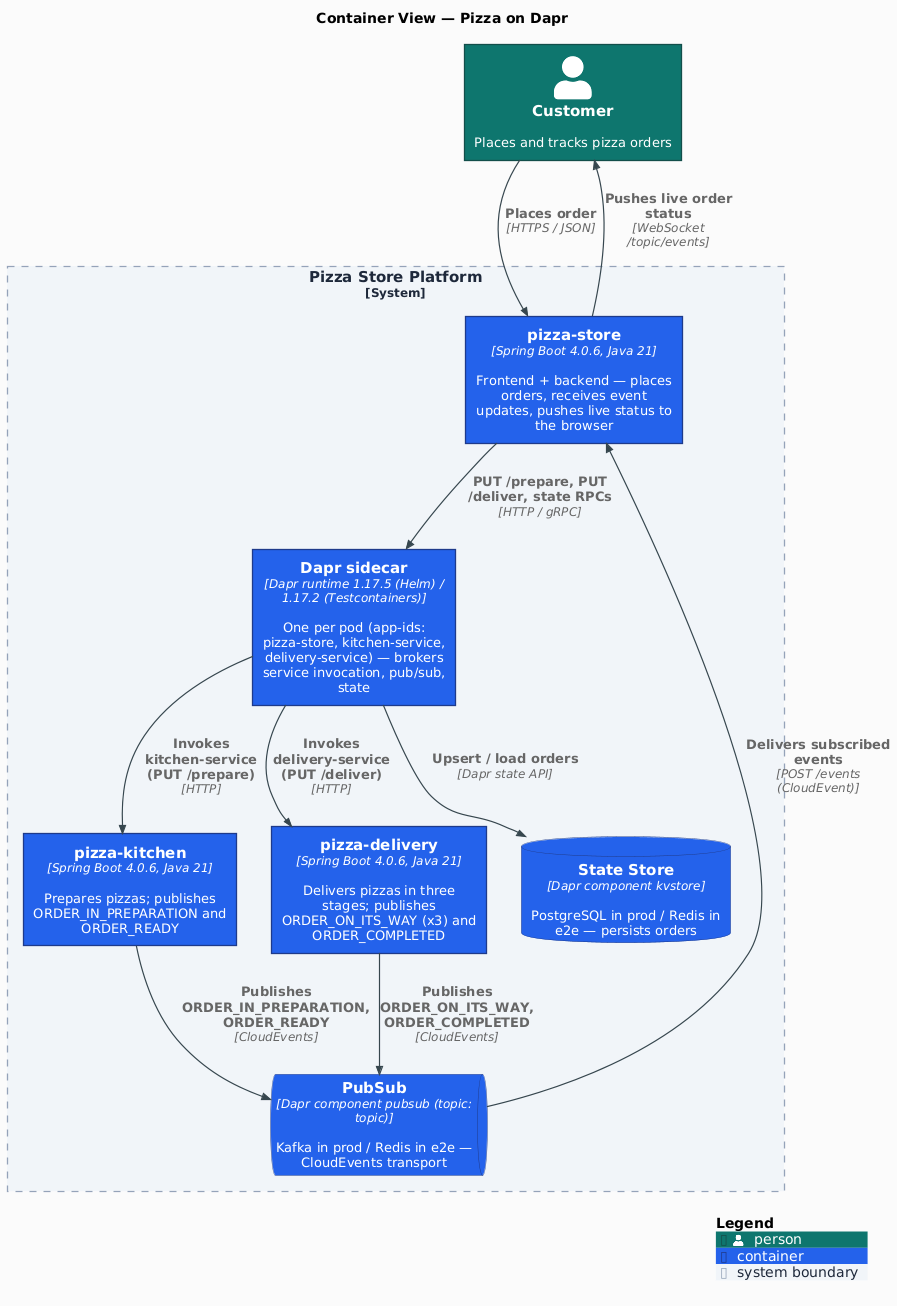
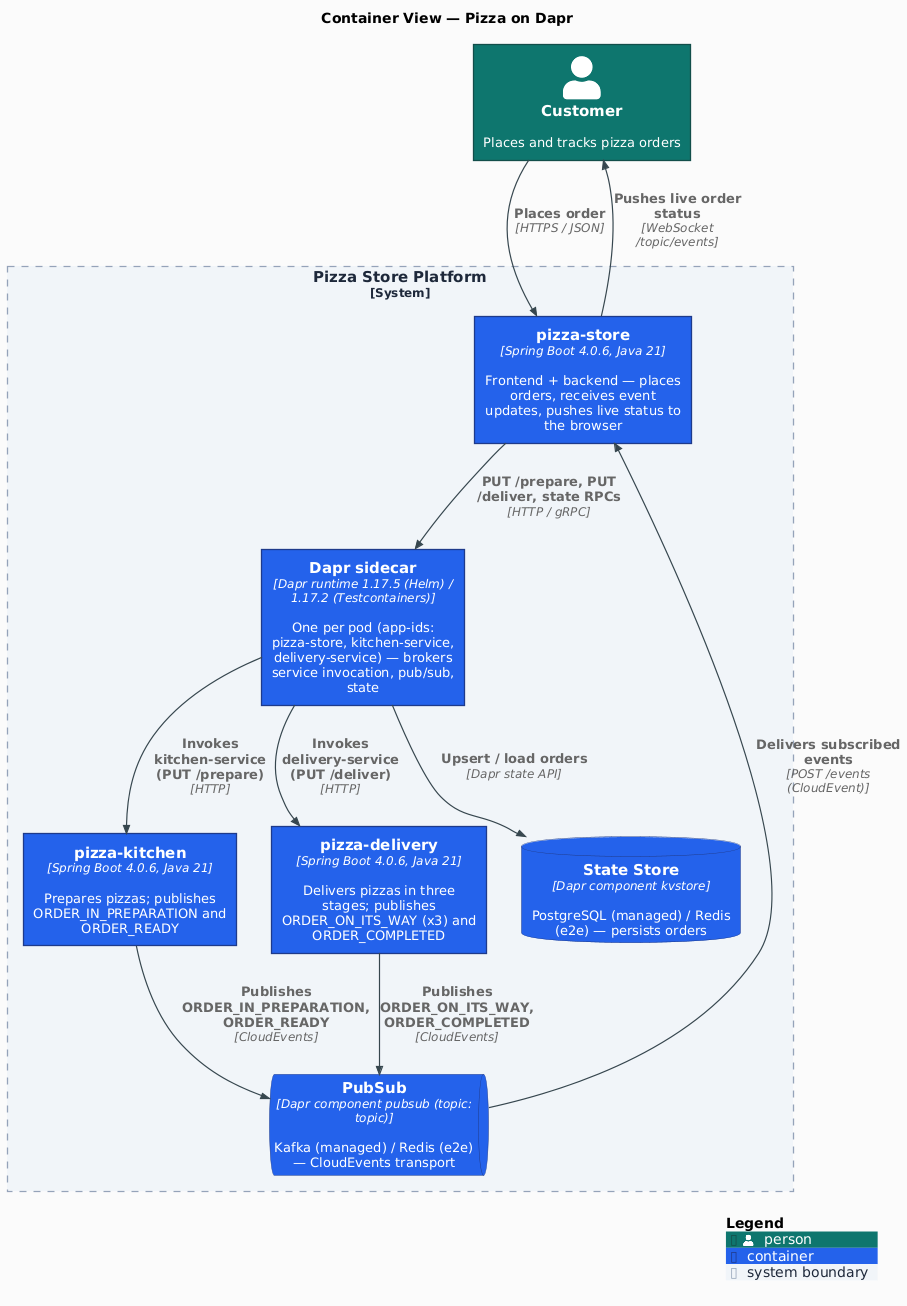
chore: project-review remediation across Makefile, CI, README, CLAUDE.md, diagrams
Foundation (Phase A):
- Makefile: route NVD_API_KEY through ~/.m2/settings.xml + -DnvdApiServerId=nvd
  (no argv leak); kind-destroy prunes kindccm-* orphan sidecars
- renovate.json: add java-version manager + Jackson/WireMock/Tomcat-embed groupings
- ci.yml: rename publish-images job to docker (canonical name); strip template
  expressions and decorative parentheticals from step names; Install Maven /
  Install mise canonical verbs; dorny/paths-filter base set only on push events;
  Sign image with cosign canonical name
- cleanup-runs.yml: add contents: read baseline for cleanup-caches gh api calls
- e2e/e2e-test.sh: K1.5 route-readiness poll between LB-IP discovery and first
  curl; soft-check intermediate Status.delivery during lifecycle poll
- diagrams: c4-context Dapr System (consistent with Container view); replace
  prod with managed in PostgreSQL/Kafka labels; c4-deployment split single
  representative pod into 3 distinct Deployment_Node blocks per service;
  replace sidecar self-loop with explicit per-pair sidecar arrows; PNGs
  re-rendered

Documentation (Phase B):
- README: Tech Stack Test containers -> Testcontainers + Diagram-lint row;
  Quick Start make run caveat moved to prose; new Context View subsection;
  Deployment View prose updated for split-pod diagram; new Build & Package
  section with Testing folded in; CI/CD publish-images -> docker with
  cve-check dep + matrix + smoke-test + cosign details; cosign verify recipe
[…]

diff --git a/CLAUDE.md b/CLAUDE.md
@@ -134,38 +134,45 @@ public class PizzaKitchenTest {
 
 Managed centrally in the parent `pom.xml` `<properties>` block. The Dapr SDK version (`dapr.version`) drives both `dapr-spring-boot-4-starter` and `testcontainers-dapr`. Dependency updates are automated via Renovate (`renovate.json`) with automerge enabled on all update types — platform automerge with squash strategy, vulnerability alerts fast-tracked with zero delay.
 
+## Key Config
+
+Permanent design rules and operational constraints. Each one is load-bearing — read before changing the related target / manifest.
+
+### Release workflow
+
+- `make ci` deliberately omits `cve-check` and `image-scan` because both are slow and one is advisory. They run via `make pre-release` (auto-invoked by `make release`):
+  - `cve-check` is wrapped in `timeout 300` and `|| true`. The OWASP dependency-check plugin can spin 20+ min in an internal retry loop against the NVD deserializer bug without exiting non-zero, so the soft-fail `||` alone is not bounded. The HTML report uploads in CI when the warm NVD cache succeeds.
+  - `image-scan` is strict. It catches Paketo helper Go-stdlib CVEs that `trivy-fs` (workspace) and `cve-check` (Maven deps) both miss. `.trivyignore` documents currently-accepted Paketo-upstream CVEs with tracker URLs.
+- `cve-check` also runs in CI on tag pushes, weekly cron (Mon 06:00 UTC), and `workflow_dispatch`.
+- The `cve-check` Make recipe routes `NVD_API_KEY` through `~/.m2/settings.xml` + `-DnvdApiServerId=nvd` (written via `printf` — bash builtin, no argv). The flag form `-DnvdApiKey=$$NVD_API_KEY` would leak the value via `ps -ef` / `/proc/<pid>/cmdline` for the entire ~30-min plugin lifetime.
+
+### Image publishing
+
+- GHCR images publish under the **repo-namespace** `ghcr.io/<owner>/<repo>/<package>`, not the user-namespace `ghcr.io/<owner>/<package>`. `GITHUB_TOKEN` can create new packages in the repo-namespace on first push; in the user-namespace it cannot (returns `denied: permission_denied: write_package` regardless of `packages: write` scope or OCI source label) — first publish then requires a PAT.
+- Touched by: `.github/workflows/ci.yml` `docker` job (`REPO` segment in image-ref construction), `k8s/pizza-*.yaml` + `k8s-dapr-shared/apps.yaml` `image:` lines, `Makefile` `kind-deploy` `sed` override.
+- Repo `default_workflow_permissions` must be `read` or `write` (both work for repo-namespace packages).
+- Cosign keyless OIDC (Sigstore Fulcio) signs each pushed digest. Verify with the recipe in [README §CI/CD](README.md#cicd).
+
+### Local KinD multi-cluster constraint
+
+Running multiple KinD clusters on the shared default `kind` Docker network causes `dapr-operator` CrashLoopBackOff with `dial tcp 10.96.0.1:443: i/o timeout` — both clusters' kube-proxies lay down DNAT rules for the same in-cluster API ClusterIP (`10.96.0.1:443`), and the rule sets collide on the host bridge.
+
+- This is the documented constraint of multi-cluster KinD on a shared network, not a bug in Helm or Dapr (reproduces identically under Helm 3.20.2 and 4.1.4). CI runners always have a clean Docker daemon, so GitHub Actions e2e is unaffected.
+- `make kind-create` warns when sibling `*-control-plane` containers are present on the `kind` network.
+- Workarounds: `kind delete cluster --name <other>` before `make e2e`, or use a per-cluster network via `KIND_EXPERIMENTAL_DOCKER_NETWORK`.
+- `make kind-destroy` prunes `kindccm-*` orphan Envoy sidecars left behind by `cloud-provider-kind`. Without that, a subsequent `kind-up` can land on an orphan's IP and inherit its stale Envoy config (pointed at dead pods from previous runs), producing "connection reset by peer" on the first curl.
+
 ## Upgrade Backlog
 
-Last reviewed: 2026-04-25
+Last reviewed: 2026-05-05
 
-- [x] **Maven 3.9 EOL (2026-03-12)** — updated `MAVEN_VERSION` to 3.9.14 (2026-04-03)
-- [x] **mise migration** — replaced SDKMAN + nvm with mise via `.mise.toml` and `.java-version` (2026-04-15)
-- [x] **Static-check composite quality gate** — `format-check` + `lint` + `trivy-fs` + `trivy-config` + `secrets` wired into `make ci` (2026-04-15)
-- [x] **CVE overrides** — pinned Tomcat 11.0.21, Jackson 3.1.2, gRPC 1.80.0 in `dependencyManagement` to address advisories (2026-04-15)
-- [x] **K8s security hardening** — `runAsNonRoot`, `readOnlyRootFilesystem`, dropped capabilities, tmpfs for writable paths in all three Deployments (both `k8s/` and `k8s-dapr-shared/`) (2026-04-15)
-- [x] **`cve-check` wired into CI** — runs on tag pushes, weekly schedule (Mon 06:00 UTC), and `workflow_dispatch`. Omitted from `make ci` and `make ci-run` — run `make cve-check` manually before pushing a release tag. NVD cache + HTML report upload intact. (2026-04-15)
-- [x] **`MAVEN_VERSION` Renovate tracking** — covered by the generic `# renovate:` customManagers regex (2026-04-15)
 - [ ] **Maven 4.0 migration** — plan when Maven 4.0 reaches GA (currently RC-5)
-- [x] **Helm 4.1.4 upgrade** — bumped `HELM_VERSION` from 3.20.1 to 4.1.4 (2026-04-25). Dapr Helm chart 1.17.5 is `apiVersion: v2` with no `kubeVersion` constraint, fully compatible with Helm 4. No CLI flag changes needed for `helm upgrade --install dapr ... --version 1.17.5 --wait --timeout 5m`. Local e2e validation was inconclusive due to a separate CNI issue on this host (see entry below); Helm version itself is not the cause — the same failure reproduces under Helm 3.20.2 with identical `dial tcp 10.96.0.1:443: i/o timeout` from `dapr-operator`. Real-CI validation will run on the next push to main.
-- [x] **Local KinD multi-cluster collision diagnosed (2026-04-25)** — `make e2e` failed locally with `dapr-operator` CrashLoopBackOff (`dial tcp 10.96.0.1:443: i/o timeout` to in-cluster `kubernetes.default`). Root cause: a sibling KinD cluster (`dapr-kafka`) was running on the shared `kind` Docker bridge network. Both clusters' kube-proxies lay down iptables/nftables DNAT rules for the same ClusterIP (`10.96.0.1:443` → local API server `172.18.0.x:6443`); the rule sets collide on the host bridge and pod→API-service traffic lands on the wrong cluster (or nowhere). Reproduced identically under Helm 3.20.2 and Helm 4.1.4 — confirms it's not a Helm regression. **Not an upstream bug**: searched `kubernetes-sigs/kind` and `aojea/kindnet` open issues, nothing matching; this is the documented constraint of running multiple KinD clusters on the shared default `kind` network. CI runners always have a clean Docker daemon, so GitHub Actions e2e is unaffected. **Mitigation shipped**: `make kind-create` now warns when sibling `*-control-plane` containers are present on the `kind` network. Workaround when running multiple Dapr clusters locally: `kind delete cluster --name <other>` before `make e2e`, or use a per-cluster network via `KIND_EXPERIMENTAL_DOCKER_NETWORK`.
 - [ ] **Spring Boot 4.0 EOL (2026-12-31)** — monitor 4.1 release schedule, plan upgrade before Dec 2026
 - [ ] **Alpha dependencies** — `opentelemetry-instrumentation-bom-alpha`, `wiremock-testcontainers` 1.0-alpha-15. Track GA releases.
-- [ ] **OWASP dependency-check NVD deserializer bug** — 12.2.1 cannot parse 9-digit nanosecond timestamps from the NVD API (`Failed to deserialize java.time.ZonedDateTime ... unparsed text found at index 23`). `cve-check` CI step is `continue-on-error: true` until a fixed release; re-enable strict failure once upstream ships. Track: dependency-check/DependencyCheck.
-- [x] **MetalLB → cloud-provider-kind + kindest/node v1.35.0** — replaced in-cluster MetalLB with kind-team's cloud-provider-kind (runs as a host-side controller, no nftables interaction). Unblocks the kindest/node v1.35.0 bump. (2026-04-15)
-- [ ] **Single-app DaprContainer limitation** — confirmed upstream-blocked: `dapr/java-sdk:testcontainers-dapr/.../DaprContainer.java` still exposes only single `appName/appPort/appChannelAddress` fields (no peer-app registration). Workaround in `KitchenInvocationIT` / `DeliveryInvocationIT`: override `DAPR_HTTP_ENDPOINT` to a WireMock receiver — this verifies the emitted HTTP contract (verb, path, body) but bypasses the sidecar invoke hop. The full sidecar→app→sidecar path is covered by the KinD e2e via `make e2e`. A richer approach would be two `DaprContainer` instances sharing a placement service on a common Docker network; not attempted because (a) upstream doesn't expose `withPlacementService` in a way that makes app IDs cross-routable, and (b) the e2e already gives us that coverage. Re-wire once upstream adds multi-app support.
-- [x] **Raise JaCoCo threshold to 0.80** — Failsafe coverage aggregation wired via `jacoco:merge`; `coverage-generate` now runs `mvn verify -P integration-test` and reports merged unit+IT coverage (pizza-store 0.89, pizza-kitchen 0.88, pizza-delivery 0.93) (2026-04-15).
-- [x] **Add integration tests (`**/*IT.java`)** — state store round-trip, kitchen invocation, delivery invocation, WebSocket broadcast (2026-04-15)
-- [x] **Add `make e2e` target + KinD/cloud-provider-kind** — full KinD lifecycle, cloud-provider-kind LoadBalancer, Dapr Helm, e2e script asserting order fan-out (2026-04-15)
-- [x] **Dapr 1.17.1 → 1.17.2; Jackson 3.1.1 → 3.1.2; OTel 1.60.1 → 1.61.0** — patch bumps (2026-04-15)
-- [x] **Dapr Helm chart bump** — chart aligned to 1.17.4 via `DAPR_HELM_VERSION` in Makefile (2026-04-15)
-- [ ] **Replace hand-drawn architecture PNGs with C4-PlantUML** — `architecture.png`, `architecture+infra.png`, `architecture+dapr.png` lack source; the `+` in filenames also complicates URL-encoding. Follow-up `/architecture-diagrams`.
-- [ ] **Add C4 Context hero diagram to README** — deferred until PlantUML toolchain and `make diagrams-check` lint are introduced (mermaid-lint not wired today). Follow-up `/architecture-diagrams`.
-- [x] **Paketo/CNB builder blind spot — added `image-scan` target** — `make image-scan` runs `trivy image --severity HIGH,CRITICAL` against each `pizza-*:e2e` OCI image after `image-build`. Wired into the `e2e` job so CI fails on layer-level CVEs that `trivy-fs` (filesystem) and `cve-check` (Maven deps) both miss. (2026-04-20)
-- [x] **Dapr Helm bump to 1.17.5** — chart now at 1.17.5 via `DAPR_HELM_VERSION`. Java SDK/testcontainers-dapr stay at 1.17.2 (latest stable on Maven Central; `io.dapr.spring:dapr-spring-boot-4-starter` 1.17.3 is RC-only — re-visit on GA). Runtime-ahead-of-SDK is the normal Dapr Java cadence. (2026-04-20)
-- [x] **First-party OCI images on GHCR** — manifests (`k8s/pizza-*.yaml`, `k8s-dapr-shared/apps.yaml`) reference `ghcr.io/andriykalashnykov/pizza-*`. New `publish-images` job in `ci.yml` is tag-gated, runs after e2e, uses `make image-scan` to build + scan, then pushes `:<version>` and `:latest` to GHCR. Renovate `kubernetes` manager enabled (`renovate.json`) so manifest image tags are auto-tracked. (2026-04-20)
-- [x] **GHCR first-publish write_package fix** — `GITHUB_TOKEN` cannot create new packages at `ghcr.io/<owner>/<package>` (user-namespace), regardless of `packages: write` scope, OCI source label, or repo workflow permissions. Must publish at `ghcr.io/<owner>/<repo>/<package>` (repo-namespace) for `GITHUB_TOKEN` to work on the first push — that's the documented, supported path. Fix touches `.github/workflows/ci.yml` `publish-images` (inject `REPO` segment), `k8s/pizza-*.yaml` + `k8s-dapr-shared/apps.yaml` image lines, and `Makefile` `kind-deploy` sed. Preserves `BP_OCI_SOURCE` label for auto-linking in the UI. Shipped as v0.1.2. (Also required `default_workflow_permissions` repo setting to be `read` or `write` — either works for repo-namespace packages, whereas user-namespace needs PAT.) (2026-04-20)
-- [x] **Pre-release gate closes image-scan blind spot** — `make ci` and `make ci-run` do NOT exercise `image-scan` (it lives downstream of `kind-deploy`). First v0.1.0 tag push failed in CI when Trivy found 3 HIGH Go-stdlib CVEs in Paketo helper binaries that no local gate ever ran against. Fix: new `make pre-release` bundles every slow gate missing from `make ci` — `cve-check` (advisory with a 300 s `timeout` wrapper: the OWASP dep-check plugin can spin 20+ min in an internal retry loop against the NVD deserializer bug without exiting non-zero, so the soft-fail `||` alone was not bounded) + `image-scan` (strict). `make release` depends on `pre-release`, so a tag cannot be written without the scan gate passing. `.trivyignore` documents the currently-accepted Paketo-upstream CVEs with the reasoning + tracker links required for removal. When upstream fixes the NVD deserializer, drop the timeout wrapper. (2026-04-20)
-- [x] **`PUBLIC_IP` server-info round-trip retired; WebSocket URL derived client-side** — the legacy flow `(client) GET /server-info → {publicIp: "localhost:8080"} → ws://localhost:8080/ws` only worked under `kubectl port-forward svc/pizza-store 8080:80`; under any real LoadBalancer (cloud-provider-kind on `make kind-up`, or a cloud LB) the WebSocket connect fell through and the Events panel stayed empty while the order fan-out still completed server-side. Surfaced 2026-04-26 during the salaboy-purge screenshot regeneration — had to fall back to port-forward to capture working UI. Fix: `app.js` now builds the broker URL from `window.location.host` with a `wss:` upgrade when the page is HTTPS, so it follows whichever host the browser is talking to and survives TLS-terminating LBs for free. Server-side: `/server-info` endpoint, `Info` record, and `PUBLIC_IP @Value` field removed from `PizzaStore.java`; `PUBLIC_IP` env entries dropped from `k8s/pizza-store.yaml` and `k8s-dapr-shared/apps.yaml`; `testGetServerInfo` removed from `PizzaStoreTest.java`. Follow-up — adding a Playwright/puppeteer browser-path assertion to `make e2e` would prevent the next regression of this class. (2026-04-26)
+- [ ] **OWASP dependency-check NVD deserializer bug** — 12.2.1 cannot parse 9-digit nanosecond timestamps from the NVD API (`Failed to deserialize java.time.ZonedDateTime ... unparsed text found at index 23`). `cve-check` CI step is `continue-on-error: true` and `make pre-release` wraps it in `timeout 300` until a fixed release ships. Re-enable strict failure once upstream ships. Track: dependency-check/DependencyCheck.
+- [ ] **Single-app DaprContainer limitation** — upstream-blocked: `dapr/java-sdk:testcontainers-dapr/.../DaprContainer.java` exposes only single `appName/appPort/appChannelAddress` fields (no peer-app registration). Workaround in `KitchenInvocationIT` / `DeliveryInvocationIT`: override `DAPR_HTTP_ENDPOINT` to a WireMock receiver — verifies the emitted HTTP contract (verb, path, body) but bypasses the sidecar invoke hop. The full sidecar→app→sidecar path is covered by the KinD e2e via `make e2e`. Re-wire once upstream adds multi-app support.
+- [ ] **Multi-arch image publish (linux/arm64)** — `spring-boot:build-image` (Paketo CNB) builds only the host arch. Apple Silicon and Graviton consumers currently pull amd64 images. Path forward: add `runs-on: ubuntu-24.04-arm` matrix dimension with `docker manifest create`, OR migrate to a thin Dockerfile + `docker/build-push-action` with `platforms: linux/amd64,linux/arm64`.
+- [ ] **WebSocket assertion in e2e** — `WebSocketBroadcastIT` covers the WS path in-process, but `e2e/e2e-test.sh` does not connect a STOMP client to the LB-exposed `/ws`. The legacy `PUBLIC_IP`-hardcoded WebSocket bug surfaced 2026-04-26 because no e2e exercise this path. Add a `websocat` (in `.mise.toml`) or Playwright step subscribing to `/topic/events` during order placement.
 
 ## Skills
 

diff --git a/README.md b/README.md
@@ -35,8 +35,9 @@ C4Context
 | JSON | Jackson 3.1.2 | Pinned to address CVE-reported 2.x transitive dependencies |
 | gRPC | gRPC 1.80.0 | Pinned to address CVEs in older Spring-Boot-managed version |
 | Build | Maven 3.9.15 | Latest 3.9.x; Maven 4.0 upgrade tracked in backlog |
-| Test containers | Testcontainers 2.x + `testcontainers-dapr` 1.17.2 | Runs containerized Dapr sidecars during tests |
+| Testcontainers | Testcontainers 2.x + `testcontainers-dapr` 1.17.2 | Runs containerized Dapr sidecars during tests |
 | Code quality | Checkstyle + google-java-format 1.35.0 + Trivy + gitleaks | Composite `make static-check` gate |
+| Diagram lint | PlantUML 1.2026.2 (`make diagrams-check`) + mermaid-cli 11.12.0 (`make mermaid-lint`) | Wired into `make static-check` |
 | Coverage | JaCoCo (80% min, enforced) | Enforced by `make coverage-check` |
 | Version manager | [mise](https://mise.jdx.dev/) | Pins Java/Maven/Node via `.mise.toml` |
 | CI | GitHub Actions | Workflow at `.github/workflows/ci.yml` |
@@ -47,9 +48,11 @@ C4Context
 make deps          # install build dependencies via mise (reads .mise.toml)
 make build         # build project (skips tests)
 make test          # run unit tests (requires Docker)
-make run           # start the application (dev only — needs a Dapr sidecar to serve orders end-to-end; see Kubernetes Deployment for the full stack)
+make run           # start pizza-store standalone
 # Open http://localhost:8080
 ```
+
+`make run` boots `pizza-store` only — the UI loads, but order placement requires the full three-service stack with Dapr sidecars. Use `make kind-up` (see [Kubernetes Deployment](#kubernetes-deployment)) to bring everything up locally.
 
 ## Prerequisites
 
@@ -77,6 +80,12 @@ make env-check
 ## Architecture
 
 The Pizza Store application simulates placing a Pizza Order that is processed by three Spring Boot 4 services communicating over Dapr building blocks. The Pizza Store Service serves as the frontend and backend to place orders; orders are sent to the Kitchen Service for preparation and once ready, the Delivery Service takes the order to the customer. [Dapr](https://dapr.io) decouples the services from infrastructure — [building block APIs](https://docs.dapr.io/concepts/building-blocks-concept/) (State Store, PubSub, Service Invocation) let infrastructure teams swap PostgreSQL/Kafka (prod) for Redis (e2e) without touching application code.
+
+### Context View
+
+<img src="docs/diagrams/out/c4-context.png" alt="C4 Context diagram — Pizza on Dapr" width="600">
+
+A customer interacts with the Pizza Store Platform over HTTPS / WebSocket; the platform delegates service invocation, pub/sub, and state persistence to its co-deployed Dapr Runtime (Helm-installed control plane plus per-pod sidecars). Source: [`docs/diagrams/c4-context.puml`](docs/diagrams/c4-context.puml).
 
 ### Container View
 
@@ -128,8 +137,8 @@ sequenceDiagram
 
 <img src="docs/diagrams/out/c4-deployment.png" alt="C4 Deployment diagram (Kubernetes)" width="800">
 
-- Three pods, one per service (`pizza-store`, `pizza-kitchen`, `pizza-delivery`), each running a single replica in the `default` namespace. The diagram collapses them to a single representative pod for legibility — in the cluster they're three separate `Deployment`s with matching `dapr.io/app-id` annotations (`pizza-store`, `kitchen-service`, `delivery-service`).
-- Each pod co-locates the Spring Boot app container with a Dapr sidecar injected via the `dapr.io/enabled` annotation.
+- Three pods in the `default` namespace, one per service (`pizza-store`, `pizza-kitchen`, `pizza-delivery`), each running a single replica with matching `dapr.io/app-id` annotations (`pizza-store`, `kitchen-service`, `delivery-service`).
+- Each pod co-locates the Spring Boot app container with a Dapr sidecar injected via the `dapr.io/enabled` annotation. Cross-pod service invocation flows app → local sidecar → remote sidecar → remote app over mTLS HTTP/gRPC; apps never address each other directly.
 - `pizza-store` is exposed through a `Service` of type `LoadBalancer`. On KinD that IP is provisioned by [cloud-provider-kind](https://github.com/kubernetes-sigs/cloud-provider-kind) (host-side controller, no in-cluster MetalLB); in production the cloud LB controller fills the same role. Service port 80 bridges to container port 8080.
 - The Dapr control plane (`dapr-operator`, `placement`, `sentry`, `injector`) runs in the `dapr-system` namespace via the official Helm chart (1.17.5).
 - PubSub and State Store components resolve to Redis for e2e (`k8s/components-e2e.yaml`) and to Kafka + PostgreSQL in production.
@@ -156,9 +165,21 @@ CloudEvents can be replayed locally against a running pizza-store using [`httpie
 http :8080/events Content-Type:application/cloudevents+json < pizza-store/event-in-prep.json
 ```
 
-## Testing
+## Build & Package
 
-Tests use [Testcontainers](https://testcontainers.com) with [`io.dapr:testcontainers-dapr`](https://central.sonatype.com/artifact/io.dapr/testcontainers-dapr) to automatically start Dapr sidecars and placement services. Integration tests run outside of Kubernetes without any manual Dapr setup — only Docker is required.
+The build pipeline produces three artefact tiers, each gated by a separate `make` target:
+
+| Stage | Command | Output | Notes |
+|-------|---------|--------|-------|
+| Compile + JAR | `make build` | `pizza-store/target/*.jar`, `pizza-kitchen/target/*.jar`, `pizza-delivery/target/*.jar` | Standard Maven `install -Dmaven.test.skip=true` |
+| OCI image | `make image-build` | `pizza-store:e2e`, `pizza-kitchen:e2e`, `pizza-delivery:e2e` (local Docker daemon) | Built via `mvn spring-boot:build-image` (Paketo CNB buildpacks); no `Dockerfile` |
+| Image scan | `make image-scan` | Pass / fail (HIGH/CRITICAL fixed-only) | Trivy `--ignore-unfixed --exit-code 1`; closes the Paketo base-layer CVE blind spot that `trivy-fs` and `cve-check` cannot see |
+
+For tag-gated GHCR publication see [CI/CD](#cicd) — the `docker` job builds, scans, smoke-tests (Spring Boot boot marker), pushes to `ghcr.io/<owner>/<repo>/pizza-*:<version>` and `:latest`, and signs every digest with [cosign keyless OIDC](https://docs.sigstore.dev/cosign/keyless/) (Sigstore Fulcio).
+
+### Testing
+
+Tests use [Testcontainers](https://testcontainers.com) with [`io.dapr:testcontainers-dapr`](https://central.sonatype.com/artifact/io.dapr/testcontainers-dapr) to start Dapr sidecars and placement services. Integration tests run outside Kubernetes without any manual Dapr setup — only Docker is required.
 
 ```mermaid
 flowchart LR
@@ -331,7 +352,7 @@ Run `make help` to see all available targets.
 
 ## CI/CD
 
-GitHub Actions runs on push to `main`, tags `v*`, pull requests, a weekly schedule, and `workflow_dispatch`.
+GitHub Actions runs on push to `main`, tags `v*`, pull requests, a weekly schedule (`cron: 0 6 * * 1`), `workflow_dispatch`, and `workflow_call` (for downstream pipelines that invoke this workflow).
 
 | Job | Triggers | Depends on | Steps |
 |-----|----------|-----------|-------|
@@ -340,10 +361,18 @@ GitHub Actions runs on push to `main`, tags `v*`, pull requests, a weekly schedu
 | **build** | push, PR, tags (`code` flag) | `changes`, `static-check` | `make build`; tag-gated artifact upload of `pizza-*/target/*.jar` |
 | **test** | push, PR, tags (`code` flag) | `changes`, `static-check` | `make test` (Surefire unit tests only — fast feedback) |
 | **integration-test** | push, PR, tags (`code` flag) | `changes`, `static-check` | `make coverage-generate` + `make coverage-check`; runs surefire + failsafe + merged-coverage gate; uploads JaCoCo report |
-| **cve-check** | tag push, weekly cron (Mon 06:00 UTC), `workflow_dispatch` | `static-check` | `make cve-check` (OWASP dependency-check), NVD cache, HTML report upload |
+| **cve-check** | tag push, weekly cron (Mon 06:00 UTC), `workflow_dispatch` | `static-check` | `make cve-check` (OWASP dependency-check), NVD cache, HTML report upload; `continue-on-error` until upstream NVD deserializer fix |
 | **e2e** | push to `main`/tag, PR label `run-e2e` or `e2e` flag, `workflow_dispatch` | `changes`, `build`, `test` | `jdx/mise-action` installs kind/kubectl/helm/trivy/gitleaks via `mise`, then `make e2e`; collects pod logs + cluster events on failure |
-| **publish-images** | tag push only | `static-check`, `build`, `test`, `integration-test`, `e2e` | `make image-scan` builds + scans Paketo CNB images; tags and pushes `ghcr.io/<owner>/<repo>/pizza-*:<version>` and `:latest` |
+| **docker** | tag push only | `static-check`, `build`, `test`, `integration-test`, `cve-check`, `e2e` | Per-service matrix (parallel runner per `pizza-store` / `pizza-kitchen` / `pizza-delivery`). GATE 1+2: `make image-scan` builds via `spring-boot:build-image` (Paketo CNB) and runs `trivy image --severity HIGH,CRITICAL --ignore-unfixed --exit-code 1`. GATE 3: Spring Boot boot-marker smoke test (90 s timeout, fails on missing classes / port-bind / broken auto-config). Then push to `ghcr.io/<owner>/<repo>/pizza-*:<version>` + `:latest`, capture digest from `RepoDigests`, and sign with [cosign keyless OIDC](https://docs.sigstore.dev/cosign/keyless/) (Sigstore Fulcio, no key material to manage; signature recorded in the public Rekor transparency log) |
 | **ci-pass** | always | all above | Gate job that fails if any needed job failed or was cancelled (required-status-check target) |
+
+Verify a published image's signature locally:
+
+```bash
+cosign verify ghcr.io/andriykalashnykov/dapr-java/pizza-store:0.1.2 \
+  --certificate-identity-regexp 'https://github.com/AndriyKalashnykov/dapr-java/.github/workflows/ci.yml@refs/tags/v.*' \
+  --certificate-oidc-issuer https://token.actions.githubusercontent.com
+```
 
 ### Required Secrets and Variables
 